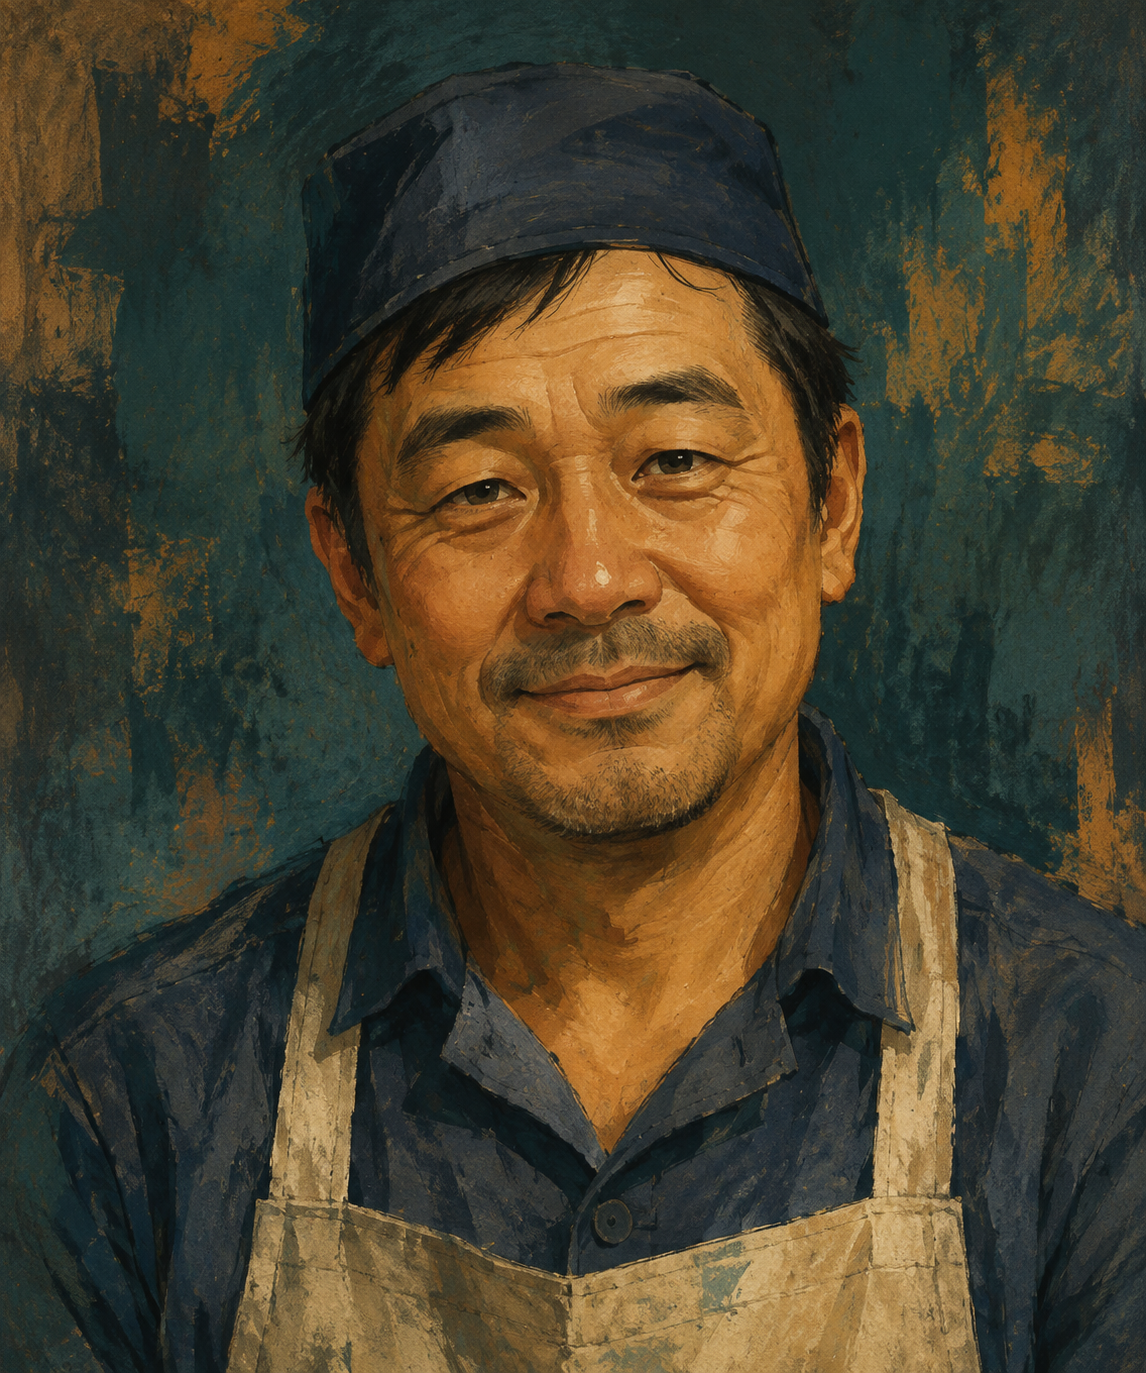
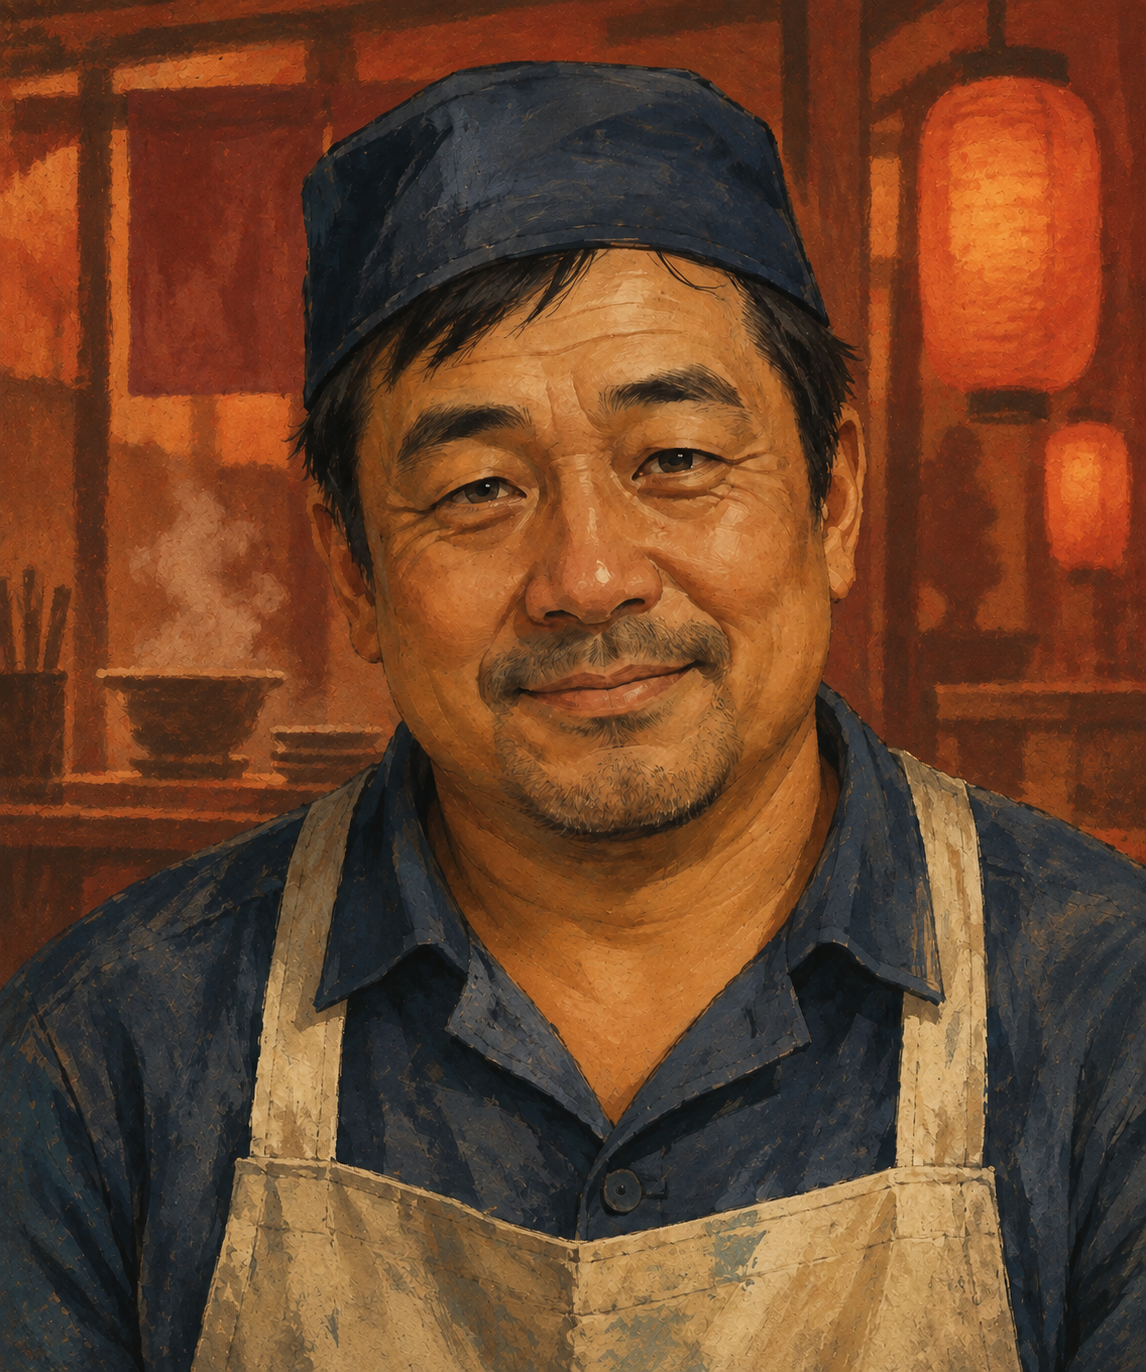
Stabilize Jun serving pose and enrich portraits and alley life

diff --git a/app/civilian-style.ts b/app/civilian-style.ts
@@ -1,7 +1,7 @@
 import * as T from 'three';
 export const civilianNames=['eric','carla','claudia','manuel','nathan','sophia'];
 export const individuality:Record<string,{width:number;skin:[number,number,number]}>=Object.fromEntries([
- ['swango',1.02,[1.03,.98,.94]],['jun',1.09,[.95,.89,.81]],['mara',.98,[1.07,1.01,.96]],
+ ['swango',1.02,[1.03,.98,.94]],['jun',1,[.95,.89,.81]],['mara',.98,[1.07,1.01,.96]],
  ['ivo',1.06,[1.04,1.02,.98]],['nell',1.03,[.96,.91,.86]],['commuter',.94,[.84,.77,.69]],
  ['student',.95,[1.1,1.04,.98]],['shopper',1.08,[.93,.85,.77]],['delivery',.96,[.87,.79,.71]],
  ['friend-a',1.1,[1.08,1.01,.93]],['friend-b',1.04,[.93,.86,.79]],['late-shift',1.12,[1.12,1.05,.98]],
@@ -13,6 +13,24 @@ export const wardrobe:Record<string,[string,string]>={
  student:['#899579','#696d76'],shopper:['#bdad8e','#757d8c'],delivery:['#778ba0','#677b84'],
  'friend-a':['#9b7c6b','#5d6d74'],'friend-b':['#c3b39d','#72797d'],'late-shift':['#969886','#686a72'],visitor:['#7c627a','#62666f'],
 };
+// Round the torso in bind space; preserve the skeleton, hands, and limb lengths.
+export function shapeCivilian(model:T.Object3D,id:string,height:number){
+ if(id!=='jun')return;
+ model.updateMatrixWorld(true);
+ model.traverse(o=>{if(!(o instanceof T.SkinnedMesh))return;
+  o.geometry=o.geometry.clone();const positions=o.geometry.attributes.position;
+  const inverse=o.matrixWorld.clone().invert(),v=new T.Vector3();
+  for(let i=0;i<positions.count;i++){
+   v.fromBufferAttribute(positions,i).applyMatrix4(o.matrixWorld);
+   const waist=Math.exp(-Math.pow((v.y-height*.64)/(height*.13),2));
+   const central=1-T.MathUtils.smoothstep(Math.abs(v.x),23,36);
+   const fullness=waist*central;v.x*=1+fullness*.26;
+   v.z+=fullness*(v.z>0?8: -2.5);
+   v.applyMatrix4(inverse);positions.setXYZ(i,v.x,v.y,v.z);
+  }
+  positions.needsUpdate=true;o.geometry.computeVertexNormals();o.geometry.computeBoundingBox();o.geometry.computeBoundingSphere();
+ });
+}
 export function dressCivilian(model:T.Object3D,id:string,height:number){
  model.userData.civilianHeight=height;
  model.updateMatrixWorld(true);
@@ -24,13 +42,13 @@ export function dressCivilian(model:T.Object3D,id:string,height:number){
   local.decompose(mesh.position,mesh.quaternion,mesh.scale);bone.add(mesh);return mesh;
  };
  if(id==='jun'){
-  const apron=new T.PlaneGeometry(37,66,8,12),position=apron.attributes.position;
-  for(let i=0;i<position.count;i++){const x=position.getX(i),y=position.getY(i);position.setZ(i,Math.sin(x*.28)*.65-Math.abs(x)*.08);position.setX(i,x*(1-y/220));}apron.computeVertexNormals();
-  attach('spine_02',apron,'#c8bda3',0,height*.57,13);
-  attach('spine_02',new T.PlaneGeometry(13,10),'#aa9e82',4,height*.56,14);
+  const apron=new T.PlaneGeometry(46,70,12,16),position=apron.attributes.position;
+  for(let i=0;i<position.count;i++){const x=position.getX(i),y=position.getY(i);position.setZ(i,Math.sin(x*.28)*.35-Math.pow(x/23,2)*9);position.setX(i,x*(1-y/220));}apron.computeVertexNormals();
+  attach('spine_02',apron,'#c8bda3',0,height*.59,24);
+  attach('spine_02',new T.PlaneGeometry(13,10),'#aa9e82',4,height*.58,25);
   for(const x of [-11,11])attach('spine_03',new T.PlaneGeometry(2.1,24),'#c8bda3',x,height*.78,12);
   const cap=attach('head',new T.SphereGeometry(10,20,10,0,Math.PI*2,0,Math.PI/2),'#344b4b',0,height-2,0);if(cap)cap.scale.y*=.6;
-  const bowl=new T.Group();bowl.name='RamenBowl';bowl.position.set(14,height*.67,29);
+  const bowl=new T.Group();bowl.name='RamenBowl';bowl.position.set(12,height*.65,34);
   const ceramic=new T.Mesh(new T.SphereGeometry(9,24,12,0,Math.PI*2,0,Math.PI/2),new T.MeshStandardMaterial({color:0xd5ccb3,roughness:.45,side:T.DoubleSide}));ceramic.rotation.x=Math.PI;bowl.add(ceramic);
   const broth=new T.Mesh(new T.CircleGeometry(8,24),new T.MeshStandardMaterial({color:0xac7b35,roughness:.38}));broth.rotation.x=-Math.PI/2;broth.position.y=-1;bowl.add(broth);model.add(bowl);
  }
@@ -78,8 +96,8 @@ export function dressCivilian(model:T.Object3D,id:string,height:number){
 export function poseCivilian(model:T.Object3D,id:string,activity:string,time:number){
  const h=model.userData.civilianHeight as number;
  if(id==='jun'){
-  reach(model,'l',new T.Vector3(18,h*.67-4,28));
-  reach(model,'r',new T.Vector3(7+Math.sin(time*1.15)*3,h*.72,29+Math.cos(time*1.15)*3));
+  reach(model,'l',new T.Vector3(17,h*.65-5,34));
+  reach(model,'r',new T.Vector3(5+Math.sin(time*1.15)*2,h*.69,34+Math.cos(time*1.15)*2));
  }else if(activity==='repair')reach(model,'r',new T.Vector3(-13,h*.63+Math.sin(time*1.2)*2,32));
  else if(activity==='talk')reach(model,'r',new T.Vector3(-22,h*.60+Math.sin(time*.8)*3,17));
 }
@@ -88,9 +106,9 @@ function reach(model:T.Object3D,side:string,target:T.Vector3){
  model.updateWorldMatrix(true,true);target=model.localToWorld(target);
  const a=upper.getWorldPosition(new T.Vector3()),b=lower.getWorldPosition(new T.Vector3()),c=hand.getWorldPosition(new T.Vector3());
  const l1=a.distanceTo(b),l2=b.distanceTo(c),direction=target.clone().sub(a),distance=Math.min(direction.length(),(l1+l2)*.98);direction.normalize();
- const pole=new T.Vector3(side==='l'?1:-1,0,0).transformDirection(model.matrixWorld);pole.addScaledVector(direction,-pole.dot(direction)).normalize();
+ const pole=new T.Vector3(side==='l'?.35:-.35,-1,-.15).transformDirection(model.matrixWorld);pole.addScaledVector(direction,-pole.dot(direction)).normalize();
  const cosine=T.MathUtils.clamp((l1*l1+distance*distance-l2*l2)/(2*l1*distance),-1,1);
  const elbow=a.clone().addScaledVector(direction,l1*cosine).addScaledVector(pole,l1*Math.sqrt(1-cosine*cosine));
- const aim=(bone:T.Object3D,child:T.Object3D,point:T.Vector3)=>{const start=bone.getWorldPosition(new T.Vector3()),from=child.getWorldPosition(new T.Vector3()).sub(start).normalize(),to=point.clone().sub(start).normalize();const q=new T.Quaternion().setFromUnitVectors(from,to).multiply(bone.getWorldQuaternion(new T.Quaternion()));bone.quaternion.copy(bone.parent!.getWorldQuaternion(new T.Quaternion()).invert().multiply(q));bone.updateWorldMatrix(false,true);};
+ const aim=(bone:T.Object3D,child:T.Object3D,point:T.Vector3)=>{const start=bone.getWorldPosition(new T.Vector3()),from=child.getWorldPosition(new T.Vector3()).sub(start).normalize(),to=point.clone().sub(start).normalize();const q=new T.Quaternion().setFromUnitVectors(from,to).multiply(bone.getWorldQuaternion(new T.Quaternion()));bone.quaternion.copy(bone.parent!.getWorldQuaternion(new T.Quaternion()).invert().multiply(q)).normalize();bone.updateWorldMatrix(false,true);};
  aim(upper,lower,elbow);aim(lower,hand,target);
 }

diff --git a/app/people-scene.ts b/app/people-scene.ts
@@ -3,9 +3,9 @@ import { GLTFLoader, type GLTF } from 'three/addons/loaders/GLTFLoader.js';
 import { clone } from 'three/addons/utils/SkeletonUtils.js';
 import type { Activity } from './street-life';
 import {setHeadPose} from './head-motion';
-import {civilianNames,wardrobe,individuality,dressCivilian,poseCivilian} from './civilian-style';
+import {civilianNames,wardrobe,individuality,dressCivilian,poseCivilian,shapeCivilian} from './civilian-style';
 export type ActorPose={id:string;model:string;x:number;y:number;height:number;vx:number;vy:number;face:number;activity:Activity;skin?:number;coat?:string;carrying?:boolean};
-type Rig={group:T.Group;model:T.Object3D;mixer:T.AnimationMixer;walk:T.AnimationAction;idle:T.AnimationAction;face:number;height:number;head?:T.Object3D;headRest?:T.Quaternion};
+type Rig={group:T.Group;model:T.Object3D;mixer:T.AnimationMixer;walk:T.AnimationAction;idle:T.AnimationAction;face:number;height:number;head?:T.Object3D;headRest?:T.Quaternion;armBase:{bone:T.Object3D;rotation:T.Quaternion}[]};
 type Surface={map:T.Texture;normal:T.Texture;mask1:T.Texture;mask2:T.Texture};
 export class PeopleScene{
  readonly canvas:HTMLCanvasElement;
@@ -55,12 +55,14 @@ export class PeopleScene{
      `);
    };material.customProgramCacheKey=()=>`civilian-${p.id}`;o.material=material;
   }});
+  shapeCivilian(model,p.id,height);
   dressCivilian(model,p.id,height);
   model.scale.multiplyScalar(p.height/height);model.scale.x*=individuality[p.id]?.width??1;model.position.y-=bounds.min.y*(p.height/height);
   const head=model.getObjectByName('head'),headRest=head?.quaternion.clone();
   const mixer=new T.AnimationMixer(model),walk=mixer.clipAction(source.animations.find(a=>a.name==='Walk')!),idle=mixer.clipAction(source.animations.find(a=>a.name==='Idle')!);
   walk.play().setEffectiveWeight(0);idle.play().setEffectiveWeight(1);idle.time=(p.x*.031)%idle.getClip().duration;walk.time=(Math.abs(p.x)*.017)%walk.getClip().duration;mixer.update(0);
-  const rig={group,model,mixer,walk,idle,face:p.face,height:p.height,head,headRest};this.actors.set(p.id,rig);this.scene.add(group);return rig;
+  const armBase=['upperarm_l','lowerarm_l','upperarm_r','lowerarm_r'].flatMap(name=>{const bone=model.getObjectByName(name);return bone?[{bone,rotation:bone.quaternion.clone()}]:[];});
+  const rig={group,model,mixer,walk,idle,face:p.face,height:p.height,head,headRest,armBase};this.actors.set(p.id,rig);this.scene.add(group);return rig;
  }
  render(poses:ActorPose[],time:number,paused:boolean){
   const dt=paused?0:Math.min(.05,Math.max(0,time-this.lastTime));this.lastTime=time;
@@ -69,7 +71,9 @@ export class PeopleScene{
    const turn=Math.atan2(Math.sin(p.face-r.face),Math.cos(p.face-r.face));r.face+=turn*(1-Math.exp(-dt*7));r.group.rotation.y=r.face;
    const speed=Math.hypot(p.vx,p.vy*1.6),moving=p.activity==='walk'&&speed>.5;
    const weight=T.MathUtils.lerp(r.walk.getEffectiveWeight(),moving?1:0,1-Math.exp(-dt*9));r.walk.setEffectiveWeight(weight);r.idle.setEffectiveWeight(1-weight);
-   r.walk.timeScale=T.MathUtils.clamp(speed/(p.height*.53),.35,1.6);r.idle.timeScale=.72+(p.x%7)*.035;r.mixer.update(dt);
+   r.walk.timeScale=T.MathUtils.clamp(speed/(p.height*.53),.35,1.6);r.idle.timeScale=.72+(p.x%7)*.035;for(const a of r.armBase)a.bone.quaternion.copy(a.rotation);
+   r.mixer.update(dt);
+   for(const a of r.armBase)a.rotation.copy(a.bone.quaternion);
    poseCivilian(r.model,p.id,p.activity,time);
    if(r.head&&r.headRest)setHeadPose(r.head,r.headRest,time,p.id.length,['talk','serve','repair','shop'].includes(p.activity));
   }
